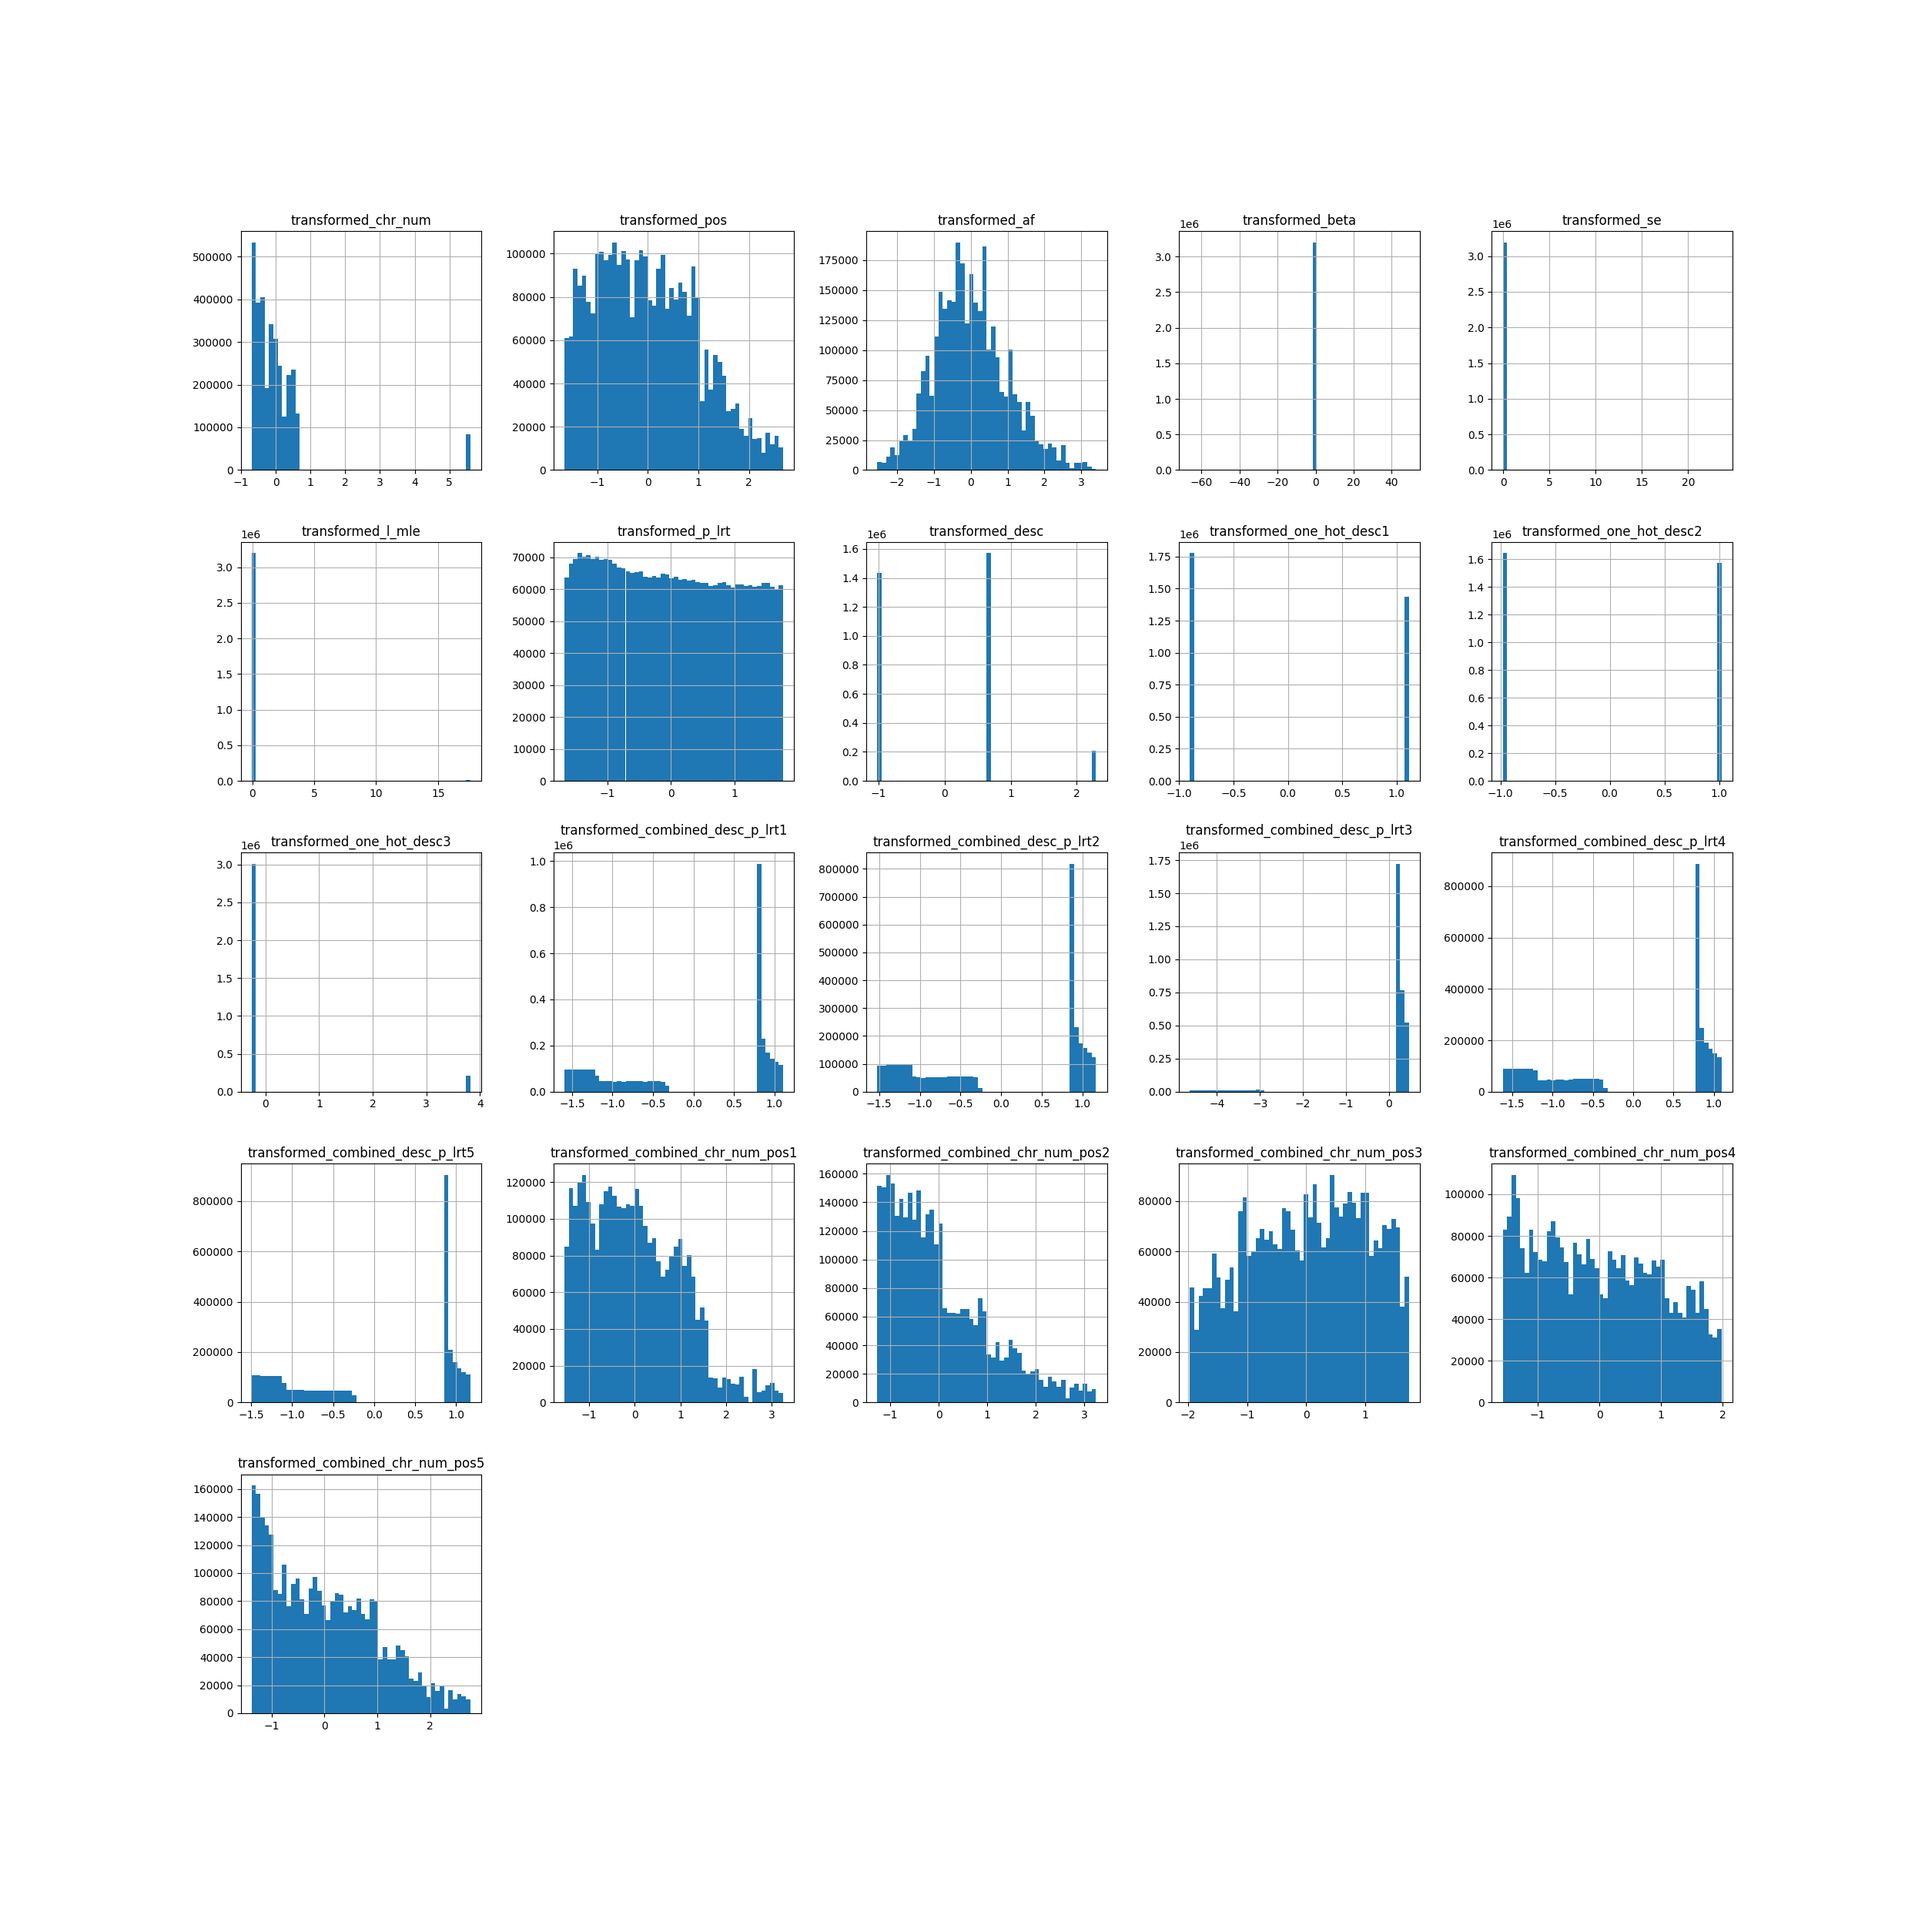
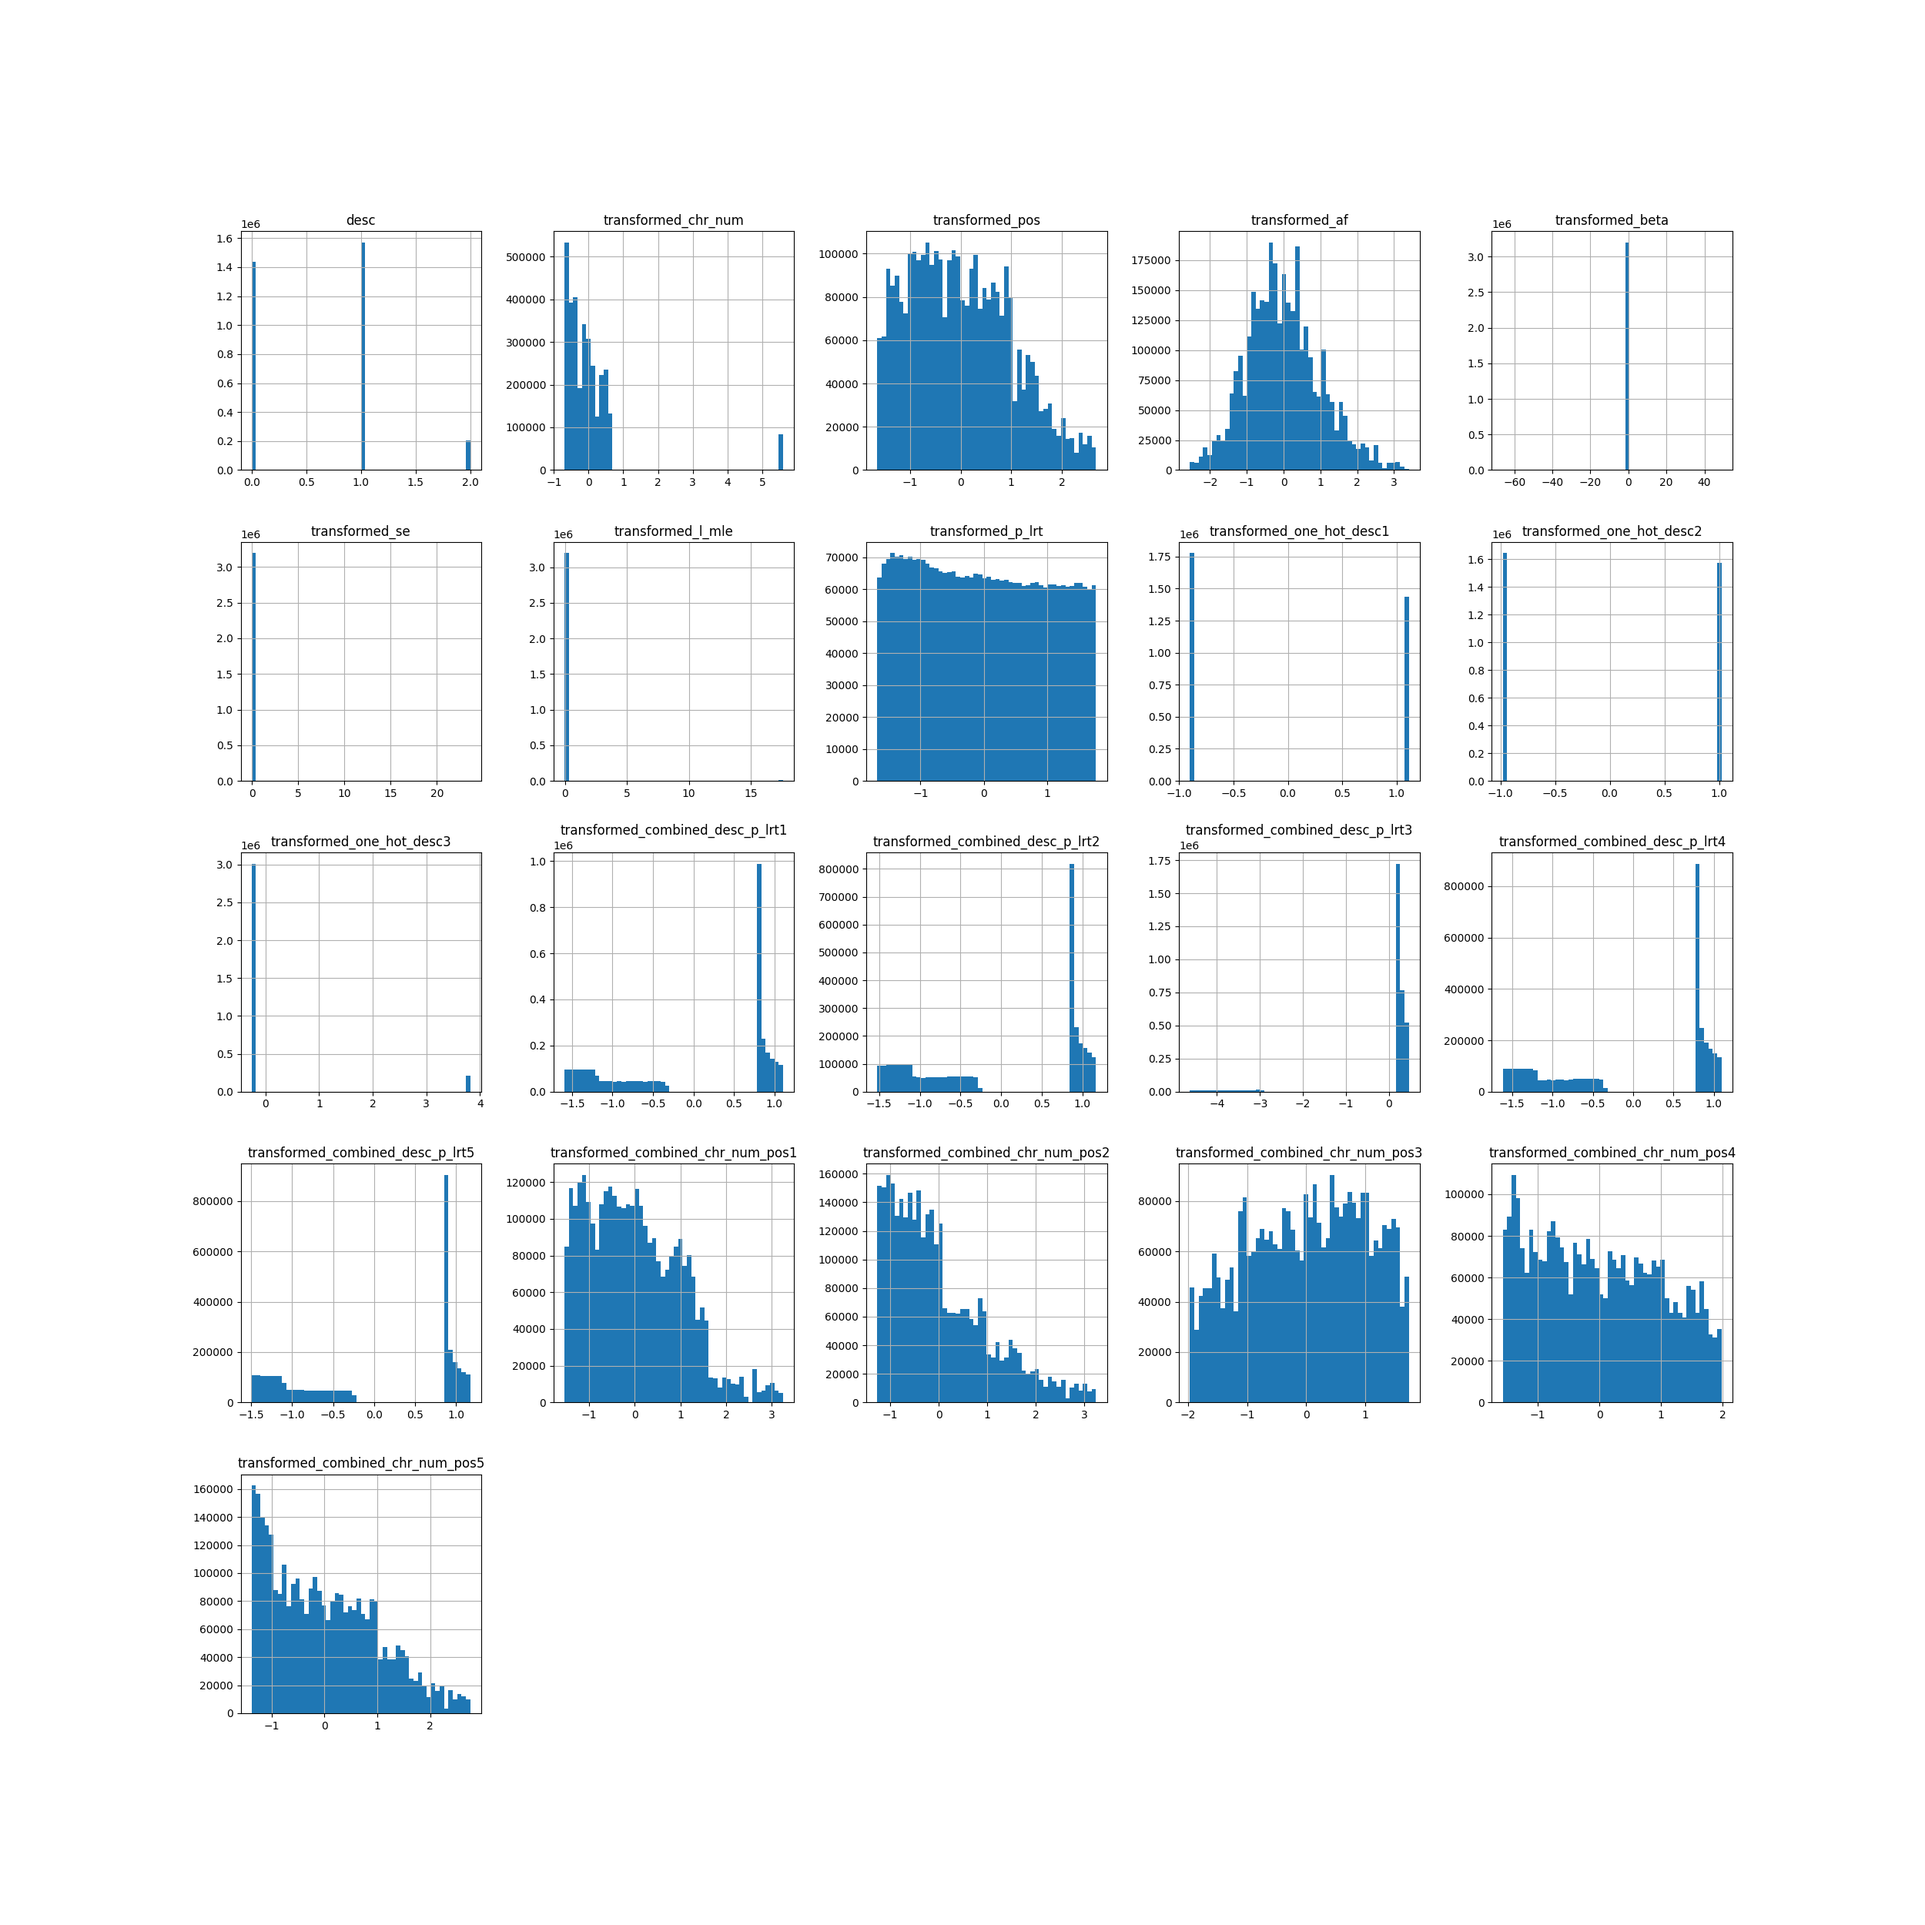
Clustering according to combined_chr_num and combined_desc_p_lrt and assignment of trait category for interpretation successful

diff --git a/scripts/dbscan_clustering_knn_prediction_hits.py b/scripts/dbscan_clustering_knn_prediction_hits.py
@@ -15,9 +15,16 @@ from vector_data import X_train, X_valid, X_test
 
 import numpy as np
 
+y_train=X_train['desc'][:5000]
+print('y_train looks like: ', y_train[:5])
+
 X_train=X_train[['transformed_combined_chr_num_pos1', 'transformed_combined_chr_num_pos2', 'transformed_combined_chr_num_pos3', 'transformed_combined_chr_num_pos4', 'transformed_combined_chr_num_pos5', 'transformed_combined_desc_p_lrt1', 'transformed_combined_desc_p_lrt2', 'transformed_combined_desc_p_lrt3', 'transformed_combined_desc_p_lrt4', 'transformed_combined_desc_p_lrt5']][:5000] # select 5000 first columns of combined and transformed columns
 
+y_valid=X_valid['desc'][:5000]
+
 X_valid=X_valid[['transformed_combined_chr_num_pos1', 'transformed_combined_chr_num_pos2', 'transformed_combined_chr_num_pos3', 'transformed_combined_chr_num_pos4', 'transformed_combined_chr_num_pos5', 'transformed_combined_desc_p_lrt1', 'transformed_combined_desc_p_lrt2', 'transformed_combined_desc_p_lrt3', 'transformed_combined_desc_p_lrt4', 'transformed_combined_desc_p_lrt5']][:5000] # same
+
+y_test=X_test['desc'][:5000]
 
 X_test=X_test[['transformed_combined_chr_num_pos1', 'transformed_combined_chr_num_pos2', 'transformed_combined_chr_num_pos3', 'transformed_combined_chr_num_pos4', 'transformed_combined_chr_num_pos5', 'transformed_combined_desc_p_lrt1', 'transformed_combined_desc_p_lrt2', 'transformed_combined_desc_p_lrt3', 'transformed_combined_desc_p_lrt4', 'transformed_combined_desc_p_lrt5']][:5000] # same
 
@@ -37,20 +44,20 @@ class Clustering:
         self.test=test
     
     def get_features_all_datasets(self, feature1, feature2):
-        return np.array(self.training[[feature1, feature2]]), np.array(self.validation[[feature1, feature2]]), np.array(self.test[[feature1, feature2]])
+        return np.array(self.training[[f'transformed_combined_chr_num_pos{feature1}', f'transformed_combined_desc_p_lrt{feature2}']]), np.array(self.validation[[f'transformed_combined_chr_num_pos{feature1}', f'transformed_combined_desc_p_lrt{feature2}']]), np.array(self.test[[f'transformed_combined_chr_num_pos{feature1}', f'transformed_combined_desc_p_lrt{feature2}']])
 
 
-print('It is time to select the features you want to do clustering on!')
+print('It is high time to select the features you want to do clustering on!')
 
-feature1=input('Enter your first feature: ')
-feature2=input('Enter your second feature: ')
+feature1=int(input('Enter transformed_combined_chr_num_pos number: '))
+feature2=int(input('Enter transformed_combined_desc_p_lrt number: '))
 clustering_task1=Clustering(X_train, X_valid, X_test)
 X_train, X_valid, X_test=clustering_task1.get_features_all_datasets(feature1, feature2)
 
 
 # 3. Proceed to DBSCAN clustering
-from sklearn.cluster import DBSCAN # import DBSCAN class for clustering
 
+from sklearn.cluster import DBSCAN # import DBSCAN class for clustering
 
 dbscan=DBSCAN(eps=0.25)
 dbscan.fit(X_train) # work with 2 features provided
@@ -64,6 +71,7 @@ print('The labels for the first 5 training data are: ', dbscan.labels_[:5]) # ch
 # 4.1. Define function for plotting
 
 import matplotlib.pyplot as plt # import plot manager
+import matplotlib as mpl
 
 def plot_dbscan(dbscan, X, size, show_xlabels=True, show_ylabels=True):
     """
@@ -85,12 +93,12 @@ def plot_dbscan(dbscan, X, size, show_xlabels=True, show_ylabels=True):
     plt.scatter(non_cores[:, 0], non_cores[:, 1], c=dbscan.labels_[non_core_mask], marker=".")
     
     if show_xlabels:
-        plt.xlabel("Trait category", fontsize=20)
+        plt.xlabel("Transformed trait category and p-lrt", fontsize=10)
     else:
         plt.tick_params(labelbottom=False)
     
     if show_ylabels:
-        plt.ylabel("Scaled chromosomal position", fontsize=20, rotation=90)
+        plt.ylabel("Transformed chromosome number and position", fontsize=10, rotation=90)
     else:
         plt.tick_params(labelleft=False)
     
@@ -110,24 +118,50 @@ plt.show()
 
 # 5. Run KNeighborsClassfiers on DBSCAN components and labels for prediction
 
+# 5.1. Perform prediction
+
 from sklearn.neighbors import KNeighborsClassifier # import KNeighborsClassifier for prediction based on DBSCAN clustering
 
-knn=KNeighborsClassifier()
+pred_knn=KNeighborsClassifier()
 print(len(X_train))
 print(len(dbscan.components_)) # expect that this length is less than the previous
-print(len(dbscan.labels_))
-print(len(dbscan.labels_[dbscan.core_sample_indices_])) # expect that this length is also less than the previous
-knn.fit(dbscan.components_, dbscan.labels_[dbscan.core_sample_indices_]) # train knn on data and labels extracted from DBSCAN
-y_dist, y_pred_id=knn.kneighbors(X_valid) # get distances and indices to nearest clusters obtained for training data for validation data
+
+pred_knn.fit(dbscan.components_, dbscan.labels_[dbscan.core_sample_indices_]) # train knn on data and labels extracted from DBSCAN
+y_dist, y_pred_id=pred_knn.kneighbors(X_valid) # get distances and indices to nearest clusters obtained for validation data
 y_pred=dbscan.labels_[dbscan.core_sample_indices_][y_pred_id] # get labels for validation data based on nearest cluster
 y_pred[y_dist>0.2]=-1 # detect anomalies by setting maximum distance allowed between instance and nearest cluster to 0.2 (can be changed)
 #print('The labels for the first 5 validation data are: \n', y_pred[:5]) # check labels for the first 5 validation data
 
-
-
-# 5. Save distance of instances to clusters
+# 5.2. Check distance of instances to clusters
 
 print('The distances to each cluster for the first 5 instances are: ', y_dist[:5].round(2)) # can change to see more
 
 
+
+
+# 6. Run KNeighborsClassifiers for supervised learning
+
+"""
+This task find relationships between 2 columns of interest and desc
+This is a way of assigning to each data point a desc to know the type of trait
+"""
+
+assign_knn=KNeighborsClassifier()
+assign_knn.fit(X_train, y_train)
+y_pred=assign_knn.predict(X_valid)
+print('The prediction for the first 5 validation data is :', y_pred[:5])
+
+from sklearn.metrics import classification_report
+print(classification_report(y_valid, y_pred))
+
+
+# 7. Perform clustering annotate each point with its description
+
+plt.figure(figsize=(10, 10))
+plt.scatter(X_valid[:, 0], X_valid[:, 1], c=y_pred)
+plt.xlabel("Transformed trait category and p-lrt", fontsize=10)
+plt.ylabel("Transformed chromosome number and position", fontsize=10, rotation=90)
+plt.colorbar(label='Original trait category', spacing='uniform', values=[0, 1, 2])
+plt.savefig(os.path.join(out_dir, "Project final DBSCAN clustering and KNN annotation validation result"))
+plt.show()
 

diff --git a/scripts/vector_data.py b/scripts/vector_data.py
@@ -118,17 +118,20 @@ from sklearn.preprocessing import StandardScaler # import transformer
 
 std_scaler=StandardScaler()
 for i in X_train.columns:
-    std_scaler1=std_scaler.fit_transform((np.array(X_train[i])).reshape(-1, 1)) # fit transformer on training set
-    X_train['transformed_'+ i]=std_scaler1
-    del X_train[i]
+    if i=='desc':
+        continue
+    else:
+        std_scaler1=std_scaler.fit_transform((np.array(X_train[i])).reshape(-1, 1)) # fit transformer on training set
+        X_train['transformed_'+ i]=std_scaler1
+        del X_train[i]
     
-    std_scaler2=std_scaler.transform((np.array(X_valid[i])).reshape(-1, 1)) # transform validation set
-    X_valid['transformed_'+ i]=std_scaler2
-    del X_valid[i]
+        std_scaler2=std_scaler.transform((np.array(X_valid[i])).reshape(-1, 1)) # transform validation set
+        X_valid['transformed_'+ i]=std_scaler2
+        del X_valid[i]
     
-    std_scaler3=std_scaler.transform((np.array(X_test[i])).reshape(-1, 1)) # transform test set
-    X_test['transformed_'+ i]=std_scaler3
-    del X_test[i]
+        std_scaler3=std_scaler.transform((np.array(X_test[i])).reshape(-1, 1)) # transform test set
+        X_test['transformed_'+ i]=std_scaler3
+        del X_test[i]
 
 
 # 8. Plot histogram of transformed training features and confirm quality
